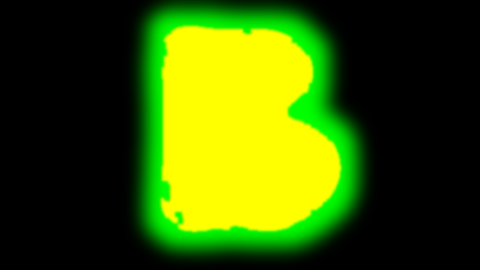
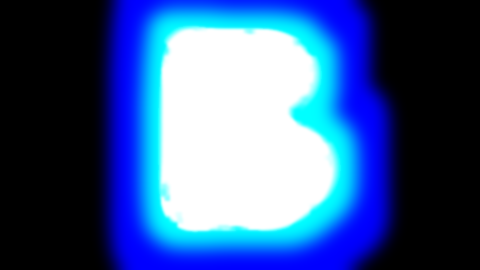
B líquida: sin «pared invisible» al llevar el cursor a los extremos
Grabado en WebKit con el vídeo congelado y el cursor real (centro, cuatro
bordes, esquinas, salida lenta y barridos rápidos). Causas:

- La máscara salía solo del primer fotograma, pero el contorno de la B
  «respira» durante el bucle: el relieve y la luz se cortaban en un borde fijo
  que no era el del cristal. Ahora sale de los 87 fotogramas (R = fracción de
  fotogramas en que el píxel es B; G desde la unión de todos).
- La refracción se multiplicaba por la zona del cursor (G), que cae justo en
  el contorno: el hoyuelo se aplastaba contra él. Nueva zona de dibujo (canal
  B, más ancha); G sigue decidiendo cuándo reacciona y cuánto se hunde.
- Cortes en seco en el shader (hoyuelo en r = 1,35, frente de las ondas y fin
  de la zona): ahora llegan a cero de forma continua.

En reposo la B no cambia (el lienzo está oculto), ni el tamaño del hueco ni el
coste por fotograma. También se publica bien banteq.css (sin el bloque de
«¿Por qué Banteq?», que se había copiado a mano).

Claude-Session: https://claude.ai/code/session_017UNSbcvKevjnmme6etBZs1

diff --git a/assets-banteq/web/banteq-liquid.js b/assets-banteq/web/banteq-liquid.js
@@ -16,7 +16,9 @@
   // El vídeo móvil (720 × 1200) es un recorte reducido del fotograma con fondo añadido arriba y
   // abajo (tools/hero_b.py): así se lleva su uv a la de la máscara, que es la del fotograma.
   const MOBILE_MAP = [818 / 1920, 1200 / 950, 595 / 1920, -125 / 950];
-  const MASK_SRC = "/banteq/hero-b-mask.png"; // R: la B · G: zona de influencia (B ensanchada)
+  // R: la B · G: zona de influencia del cursor (B ensanchada) · B: zona de dibujo (más ancha).
+  // Calculada con todos los fotogramas del bucle (tools/hero_b.py mascara).
+  const MASK_SRC = "/banteq/hero-b-mask.png";
   const FRAME_W = 1920;
   const FRAME_H = 1080;
   const phone = matchMedia("(max-width: 809.98px)"); // mismo corte que el diseño móvil de Framer
@@ -58,7 +60,9 @@ vec2 maskUv(vec2 uv) { return uv * uMaskRect.xy + uMaskRect.zw; }
 void main() {
   vec2 p = vec2(vUv.x, 1.0 - vUv.y) * uRes;
   vec2 uv = videoUv(p);
-  float zone = texture2D(uMask, maskUv(uv)).g;
+  // Zona de dibujo (canal B), más ancha que la de influencia del cursor (G): el hoyuelo y las ondas
+  // mantienen su forma al cruzar el contorno de la B; antes se aplastaban contra él.
+  float zone = texture2D(uMask, maskUv(uv)).b;
   vec2 slope = vec2(0.0);
   vec2 d = p - uPointer;
   float r = length(d) / uRadius;
@@ -67,6 +71,9 @@ void main() {
     if (r < 1.35) {
       float rim = (r - 0.72) / 0.2;
       float dh = uDepth * (6.4 * r * exp(-3.2 * r * r) - 2.5 * rim * exp(-rim * rim));
+      // Se apaga del todo antes de r = 1,35 (el límite del cálculo y del scissor): sin esto el
+      // hoyuelo terminaba en un círculo con un salto pequeño pero visible.
+      dh *= 1.0 - smoothstep(1.05, 1.35, r);
       slope += dh * d / max(length(d), 0.001);
     }
     // Ondas de retorno: nacen en el borde del hoyuelo y se abren perdiendo fuerza.
@@ -77,13 +84,16 @@ void main() {
       float front = 0.55 + w.z * 1.3;
       float x = length(dw) / uRadius - front;
       if (abs(x) > 0.9) continue;
-      float amp = w.w * exp(-w.z * 2.4) / front * exp(-7.0 * x * x);
+      float amp = w.w * exp(-w.z * 2.4) / front * exp(-7.0 * x * x) * (1.0 - smoothstep(0.6, 0.9, abs(x)));
       slope += amp * (-14.0 * x * cos(8.0 * x) - 8.0 * sin(8.0 * x)) * dw / max(length(dw), 0.001);
     }
   }
   float thin = clamp(uDepth, 0.0, 1.0) * exp(-r * r * 4.5) * step(0.002, zone);
   // Solo se pinta donde el líquido está deformado; en el resto se ve el vídeo nativo de debajo.
-  float alpha = clamp(length(slope) * 6.0 + thin * 3.0, 0.0, 1.0);
+  // Hacia el final de la zona de influencia el lienzo se desvanece en continuo: antes se dejaba de
+  // pintar de golpe donde la zona llegaba a 0 y, si el borde caía dentro del hoyuelo o de una onda,
+  // se veía la «pared».
+  float alpha = clamp((length(slope) * 6.0 + thin * 3.0) * smoothstep(0.002, 0.25, zone), 0.0, 1.0);
   if (alpha < 0.004) {
     gl_FragColor = vec4(0.0);
   } else {

diff --git a/public/banteq/banteq-liquid.js b/public/banteq/banteq-liquid.js
@@ -16,7 +16,9 @@
   // El vídeo móvil (720 × 1200) es un recorte reducido del fotograma con fondo añadido arriba y
   // abajo (tools/hero_b.py): así se lleva su uv a la de la máscara, que es la del fotograma.
   const MOBILE_MAP = [818 / 1920, 1200 / 950, 595 / 1920, -125 / 950];
-  const MASK_SRC = "/banteq/hero-b-mask.png"; // R: la B · G: zona de influencia (B ensanchada)
+  // R: la B · G: zona de influencia del cursor (B ensanchada) · B: zona de dibujo (más ancha).
+  // Calculada con todos los fotogramas del bucle (tools/hero_b.py mascara).
+  const MASK_SRC = "/banteq/hero-b-mask.png";
   const FRAME_W = 1920;
   const FRAME_H = 1080;
   const phone = matchMedia("(max-width: 809.98px)"); // mismo corte que el diseño móvil de Framer
@@ -58,7 +60,9 @@ vec2 maskUv(vec2 uv) { return uv * uMaskRect.xy + uMaskRect.zw; }
 void main() {
   vec2 p = vec2(vUv.x, 1.0 - vUv.y) * uRes;
   vec2 uv = videoUv(p);
-  float zone = texture2D(uMask, maskUv(uv)).g;
+  // Zona de dibujo (canal B), más ancha que la de influencia del cursor (G): el hoyuelo y las ondas
+  // mantienen su forma al cruzar el contorno de la B; antes se aplastaban contra él.
+  float zone = texture2D(uMask, maskUv(uv)).b;
   vec2 slope = vec2(0.0);
   vec2 d = p - uPointer;
   float r = length(d) / uRadius;
@@ -67,6 +71,9 @@ void main() {
     if (r < 1.35) {
       float rim = (r - 0.72) / 0.2;
       float dh = uDepth * (6.4 * r * exp(-3.2 * r * r) - 2.5 * rim * exp(-rim * rim));
+      // Se apaga del todo antes de r = 1,35 (el límite del cálculo y del scissor): sin esto el
+      // hoyuelo terminaba en un círculo con un salto pequeño pero visible.
+      dh *= 1.0 - smoothstep(1.05, 1.35, r);
       slope += dh * d / max(length(d), 0.001);
     }
     // Ondas de retorno: nacen en el borde del hoyuelo y se abren perdiendo fuerza.
@@ -77,13 +84,16 @@ void main() {
       float front = 0.55 + w.z * 1.3;
       float x = length(dw) / uRadius - front;
       if (abs(x) > 0.9) continue;
-      float amp = w.w * exp(-w.z * 2.4) / front * exp(-7.0 * x * x);
+      float amp = w.w * exp(-w.z * 2.4) / front * exp(-7.0 * x * x) * (1.0 - smoothstep(0.6, 0.9, abs(x)));
       slope += amp * (-14.0 * x * cos(8.0 * x) - 8.0 * sin(8.0 * x)) * dw / max(length(dw), 0.001);
     }
   }
   float thin = clamp(uDepth, 0.0, 1.0) * exp(-r * r * 4.5) * step(0.002, zone);
   // Solo se pinta donde el líquido está deformado; en el resto se ve el vídeo nativo de debajo.
-  float alpha = clamp(length(slope) * 6.0 + thin * 3.0, 0.0, 1.0);
+  // Hacia el final de la zona de influencia el lienzo se desvanece en continuo: antes se dejaba de
+  // pintar de golpe donde la zona llegaba a 0 y, si el borde caía dentro del hoyuelo o de una onda,
+  // se veía la «pared».
+  float alpha = clamp((length(slope) * 6.0 + thin * 3.0) * smoothstep(0.002, 0.25, zone), 0.0, 1.0);
   if (alpha < 0.004) {
     gl_FragColor = vec4(0.0);
   } else {

diff --git a/public/banteq/banteq.css b/public/banteq/banteq.css
@@ -168,20 +168,6 @@ html body {
    Rendimiento durante el hover (medido con el cursor en movimiento continuo; README).
    ------------------------------------------------------------------------------------------ */
 
-/* [Value Section] «¿Por qué Banteq?». Sección retirada: mientras esté oculta
-   (contenido.MOSTRAR_POR_QUE_BANTEQ) el build no publica este bloque.
-   El aro de cristal del icono y la pestaña del número llevaban backdrop-filter (desenfoque de 12 px
-   y 5 px). No reaccionaban al cursor, pero WebKit (Safari)
-   rehacía esos 6 desenfoques del fondo en cada fotograma que pintaba, y con el ratón en
-   movimiento hay uno por cada movimiento: fotogramas de 35–45 ms. Lo que hay detrás es el fondo
-   oscuro liso de la tarjeta, así que sin desenfoque se ve igual. */
-#por-que-banteq [data-framer-name="Icon Wrap"],
-#por-que-banteq [data-framer-name="Number"] {
-  -webkit-backdrop-filter: none !important;
-  backdrop-filter: none !important;
-}
-/* [/Value Section] */
-
 /* «Conectamos tus herramientas»: hover del botón central «B · Hablemos». Antes Framer Motion
    animaba por JavaScript el degradado y la sombra interior (repintado del círculo en cada
    fotograma, y un re-render de React al entrar y al salir). Ahora una capa con el aspecto final del

diff --git a/tools/hero_b.py b/tools/hero_b.py
@@ -270,20 +270,49 @@ def video(src):
     loop.unlink()
     run("-i", str(GEN / "hero-b.mp4"), "-frames:v", "1", "-q:v", "3", str(GEN / "hero-b-poster.jpg"))
     run("-i", str(GEN / "hero-b-movil.mp4"), "-frames:v", "1", "-q:v", "3", str(GEN / "hero-b-movil-poster.jpg"))
-    # Máscara para el shader, a 1/4: R = la B (borde suave), G = zona de influencia (B ensanchada
-    # ~150 px del fotograma, con caída suave), que es donde el cursor deforma el líquido.
-    first = Image.open(GEN / "hero-b-poster.jpg").convert("RGB")
+    print("hero-b-poster.jpg")
+    mascara()
+
+
+def mascara(src=None):
+    """Máscara del shader de banteq-liquid.js, a 1/4 del fotograma. R = la B; G = zona de influencia
+    (la B ensanchada ~150 px del fotograma, con caída suave), donde el cursor deforma el líquido;
+    B = zona de dibujo, más ancha (ver abajo).
+
+    Se calcula con todos los fotogramas del bucle, no solo con el primero: el contorno de la B
+    «respira» unos píxeles durante el vídeo, y con la silueta de un solo fotograma la deformación
+    se cortaba en seco en un borde fijo que no coincidía con el del cristal (la «pared invisible»
+    al llevar el cursor a los extremos). R es la fracción de fotogramas en que cada píxel es B
+    (1 dentro, 0 fuera y un degradado donde el contorno se mueve) y G parte de la unión de todos."""
+    src = Path(src) if src else GEN / "hero-b.mp4"
     bg = Image.open(WORK / "background.png").convert("RGB")
-    m = b_mask(first, bg)
-    r = m.filter(ImageFilter.GaussianBlur(1.2))
-    g = m
+    raw = subprocess.run([FFMPEG, "-hide_banner", "-loglevel", "error", "-i", str(src), "-vf", "format=rgb24",
+                          "-f", "rawvideo", "-"], capture_output=True, check=True).stdout
+    size = FW * FH * 3
+    masks = [b_mask(Image.frombytes("RGB", (FW, FH), raw[i:i + size]), bg) for i in range(0, len(raw), size * 2)]
+    union = masks[0]
+    count = [0] * (union.width * union.height)
+    for m in masks:
+        union = ImageChops.lighter(union, m)
+        count = [c + (v > 0) for c, v in zip(count, m.tobytes())]
+    frac = Image.frombytes("L", union.size, bytes(round(255 * c / len(masks)) for c in count))
+    r = frac.filter(ImageFilter.GaussianBlur(1.2))
+    g = union
     for _ in range(4):
         g = g.filter(ImageFilter.MaxFilter(9))
     g = g.filter(ImageFilter.GaussianBlur(9))
-    g = ImageChops.lighter(g, m)
-    Image.merge("RGB", (r, g, Image.new("L", m.size, 0))).save(GEN / "hero-b-mask.png", optimize=True)
-    print("hero-b-poster.jpg, hero-b-mask.png", m.size)
+    g = ImageChops.lighter(g, union)
+    # B = zona de dibujo: la unión ensanchada 48 px (más que 1,35 radios del hoyuelo a cualquier
+    # tamaño de pantalla) y con caída suave. Ahí la refracción no se atenúa, así que el hoyuelo
+    # conserva su forma al cruzar el contorno de la B en vez de aplastarse contra él; G sigue
+    # decidiendo cuándo reacciona al cursor y cuánto se hunde.
+    b = union
+    for _ in range(12):
+        b = b.filter(ImageFilter.MaxFilter(9))
+    b = ImageChops.lighter(b.filter(ImageFilter.GaussianBlur(8)), g)
+    Image.merge("RGB", (r, g, b)).save(GEN / "hero-b-mask.png", optimize=True)
+    print("hero-b-mask.png", union.size, f"({len(masks)} fotogramas)")
 
 
 if __name__ == "__main__":
-    {"plate": plate, "clean": clean, "video": video}[sys.argv[1]](*sys.argv[2:])
+    {"plate": plate, "clean": clean, "video": video, "mascara": mascara}[sys.argv[1]](*sys.argv[2:])

diff --git a/README.md b/README.md
@@ -112,6 +112,13 @@ El fondo del hero es una B de cristal líquido negro (referencia: `assets-banteq
   (radio 50–85 px, el 4,5 % del ancho del hero; antes 100–170 px) el líquido se hunde y se aparta, y
   al irse vuelve con un pequeño rebote y ondas. Solo actúa sobre la B. El tamaño se cambia en
   `radius` (todo lo demás va en unidades de ese radio, así que la intensidad no cambia).
+- **Sin «pared» en los bordes**: la máscara (`hero-b-mask.png`, `python3 tools/hero_b.py mascara`)
+  sale de los 87 fotogramas del bucle y no solo del primero, porque el contorno de la B «respira»
+  unos píxeles: R es la fracción de fotogramas en que cada píxel es B (borde suave donde se mueve),
+  G la zona del cursor (cuándo reacciona y cuánto se hunde) y B una zona de dibujo más ancha, donde
+  la refracción no se atenúa, para que el hoyuelo y las ondas crucen el contorno sin aplastarse. En
+  el shader no hay cortes en seco: el hoyuelo, las ondas y la opacidad del lienzo llegan a cero de
+  forma continua antes del límite del cálculo y del scissor.
 - **Rendimiento**: en reposo no hay WebGL ni bucle de animación: se ve el `<video>` nativo
   (decodificado y compuesto por hardware). El lienzo solo dibuja mientras el cursor está cerca de la
   B y se oculta en cuanto el líquido se asienta. `pointermove` solo guarda coordenadas (sin medir el
